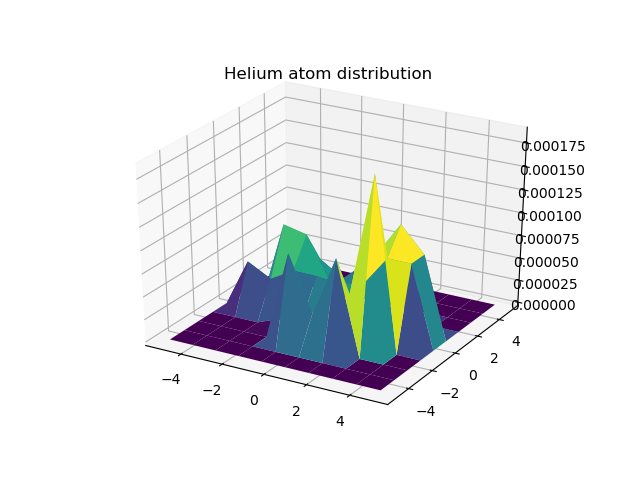
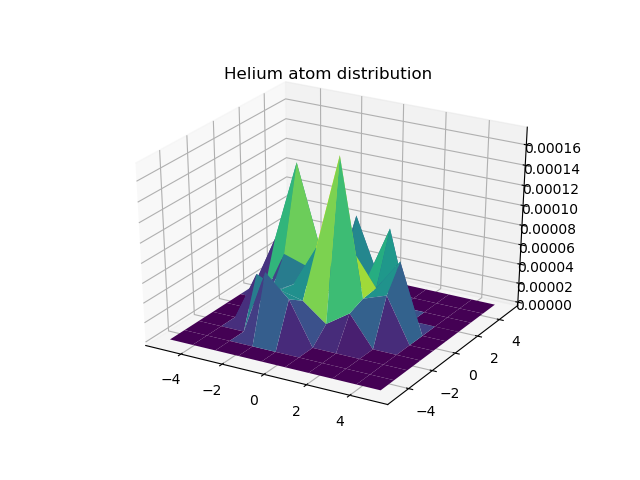
Integral now returns close to the accurate value, but not sure yet about the error estimations.

diff --git a/venv/montecarlo.py b/venv/montecarlo.py
@@ -2,12 +2,12 @@ import numpy as np
 import random
 from matplotlib import pyplot as plt
 
-test_mode = True
+test_mode = False
 
 '''
 TASK 1
 '''
-print('Starting task 1')
+# main process begins after function definitions
 
 def uniform(N):
     sample = [random.uniform(0, 1) for i in range(N)]
@@ -19,12 +19,6 @@ def uniform(N):
     sigma = np.sqrt(variance)
     error = sigma/np.sqrt(N)
     print('N=', N, ': \tI_N=', I_N, ', error=', error)
-print('---TASK 1 OUTPUT---')
-print('--UNIFORM DISTRIBUTION--')
-uniform(10)
-uniform(100)
-uniform(1000)
-uniform(10000)
 
 def linear(N, a=-0.5, b=1.25):
     #sample = [random.uniform(0, np.sqrt((2*a+b)/b)-b) for i in range(N)]    # not quite sure about np.sqrt((2*a+b)/b)-b, got there by trial and error
@@ -42,11 +36,6 @@ def linear(N, a=-0.5, b=1.25):
     sigma = np.sqrt(variance)
     error = sigma/np.sqrt(N)
     print('N=', N, ': \tI_N=', I_N, ', error=', error)
-print('--LINEAR DISTRIBUTION--')
-linear(10)
-linear(100)
-linear(1000)
-linear(10000)
 
 def metropolis_task1(N, a=-0.5, b=1.25):
     sample = []
@@ -104,16 +93,32 @@ def metropolis_task1(N, a=-0.5, b=1.25):
     acceptance_rate = nbr_accepts/(nbr_accepts+nbr_rejects)
     print('N=', N, ': \tI_N=', I_N, '\terror=', error, '\tpsi_k=', psi_k, 'for k=', k, '\tacceptance_rate=',acceptance_rate)
     #print('nbr_accepts:',nbr_accepts,'\tnbr_rejects:',nbr_rejects)
-print('--METROPOLIS--')
-metropolis_task1(10)
-metropolis_task1(100)
-metropolis_task1(1000)
-metropolis_task1(10000)
+
+# MAIN PROCESS
+if __name__ == '__main__':
+    print('Starting task 1')
+    print('---TASK 1 OUTPUT---')
+    print('--UNIFORM DISTRIBUTION--')
+    uniform(10)
+    uniform(100)
+    uniform(1000)
+    uniform(10000)
+    print('--LINEAR DISTRIBUTION--')
+    linear(10)
+    linear(100)
+    linear(1000)
+    linear(10000)
+    print('--METROPOLIS--')
+    metropolis_task1(10)
+    metropolis_task1(100)
+    metropolis_task1(1000)
+    metropolis_task1(10000)
 
 '''
 TASK 2
 '''
 print('Starting task 2')
+# main process begins after function definitions
 
 # the wave function - input consists of two vectors in cartesian coordinates and a value of alpha
 def psi(alpha, vec_1, vec_2=None):
@@ -131,12 +136,17 @@ def get_samples(alpha, N=100000, N_eq=10000):
     for i in range(6):
         first_sample[i%2][i%3] = random.uniform(-xyz_max, xyz_max)
     #x_i = np.array([random.uniform(-xyz_max, xyz_max),random.uniform(-xyz_max, xyz_max),random.uniform(-xyz_max, xyz_max)])
-    x_i = sample(alpha, first_sample, N_eq)[-1]       # sample N_eq times first
+    samples, acceptance_rate = sample(alpha, first_sample, N_eq)       # sample N_eq times first
+    x_i = samples[-1]
     return sample(alpha, x_i, N)
 def sample(alpha, starting_points, nbr_samples):
+    # alpha = corresponding parameter in trial wave function
+    # starting_points = a pair of coordinate triples ((x1,y1,z1),(x2,y2,z2)) corresponding to the initial positions
+    # nbr_samples = number of items to be returned; each item is a pair of coordinate triples
     out = []
     dim = 0  # x, y or z dimension
     out.append(starting_points)
+    nbr_accepted = 0
     while len(out) < nbr_samples:
         r = random.uniform(-xyz_max, xyz_max)
         next_coordinate = starting_points[dim%2][dim%3] + delta * (r - 0.5)
@@ -153,11 +163,13 @@ def sample(alpha, starting_points, nbr_samples):
         r = random.uniform(0, 1)
         if r < prob:  # note that this entails 1 < prob
             starting_points = next_points
+            nbr_accepted += 1
         out.append(starting_points)                      # NOT SURE ABOUT ACCEPTING OLD VALUE AGAIN??
         # alternate between x, y and z dimensions for two points
         dim += 1
         dim %= 6
-    return out
+    acceptance_rate = nbr_accepted/nbr_samples
+    return out, acceptance_rate
 
 # local energy - input same as for wavefunction
 def local_energy(alpha, positions):
@@ -165,19 +177,19 @@ def local_energy(alpha, positions):
     vec_2 = positions[1]
     r_1 = np.linalg.norm(vec_1)
     r_2 = np.linalg.norm(vec_2)
-    r_12 = np.linalg.norm(vec_2-vec_1)
+    r_12 = np.linalg.norm(vec_1-vec_2)
     r_1_hat = vec_1/r_1
     r_2_hat = vec_2/r_2
-    r_12_hat = (vec_2-vec_1)/r_12
+    r_12_hat = (vec_1-vec_2)/r_12
     term_1 = -4
-    term_2 = np.dot(r_1_hat-r_2_hat, r_12_hat)/(1+alpha*r_12)**2
+    term_2 = np.dot(r_1_hat-r_2_hat, r_12_hat)/((1+alpha*r_12)**2)
     term_3 = alpha/(1+alpha*r_12)
-    term_4 = alpha/(1+alpha*r_12)**2
-    term_5 = alpha/(1+alpha*r_12)**3
-    term_6 = -1/(4*(1+alpha*r_12)**4)
+    term_4 = alpha/((1+alpha*r_12)**2)
+    term_5 = alpha/((1+alpha*r_12)**3)
+    term_6 = -1/(4*((1+alpha*r_12)**4))
     return term_1+term_2+term_3+term_4+term_5+term_6
 
-def metropolis_task2(alpha, sample):
+def calculate_integral(alpha, sample):
     N = len(sample)
     # calculate integral
     psi_2 = []
@@ -190,6 +202,9 @@ def metropolis_task2(alpha, sample):
     rho = psi_2/normalization_factor             # NOT SURE HOW THIS AFFECTS THE CORRELATION??
     E_L = np.asarray(E_L)
     #I_N = np.sum(E_L*rho)/N                    # SHOULD DIVIDE INTEGRAND WITH WEIGHT FUNCTION??
+    for i in range(len(E_L)):
+        #print(E_L[i])
+        pass
     I_N = np.sum(E_L) / N
     # calculate autocorrelation
     psi_array = []      # append to output
@@ -198,8 +213,8 @@ def metropolis_task2(alpha, sample):
     while np.abs(psi_k) > 0.1 and k < N - 1:  # np.abs really needed??
         k += 1
         corr = []
-        # g = f/w = (E_L*rho)/rho = E_L
-        g = E_L
+        # g = f/w = ((E_L*rho)/rho)/rho = E_L/rho
+        g = E_L/rho
         x = sample
         # same as above
         for i in range(len(x) - k):
@@ -209,44 +224,68 @@ def metropolis_task2(alpha, sample):
         g_square_mean = np.mean(g * g)
         psi_k = (corr_mean - g_mean * g_mean) / (g_square_mean - g_mean * g_mean)
         psi_array.append(psi_k)       # append to output
-    # print results
-    return I_N, psi_array
+    # calculate variance
+    variance = np.sum(E_L*E_L) / N - I_N ** 2
+    sigma = np.sqrt(variance)
+    error = sigma/np.sqrt(N/len(psi_array))
+    # return results
+    return I_N, psi_array, E_L
 
-# main process
-delta = 1.9                     # NOT SURE??
-xyz_max = 5                     # NOT SURE??
-alphas = (0.100, 0.125, 0.150)
-N=100000
-N_eq=10000
-M = 10
-if test_mode:
-    M = 1
-    alphas = [0.125]
+# MAIN PROCESS
+if __name__ == '__main__':
+    # main process
+    delta = 0.3                     # got this value by trial and error, but doesn't appear to affect the result much
+    xyz_max = 5                     # at this distance from the origin, probabilities are very small
+    alphas = (0.100, 0.125, 0.150)
+    N=100000
+    N_eq=10000
+    M = 10
+    if test_mode:
+        M = 1
+        alphas = [0.125]
 
-# perform calculations M times for each value of alpha
-output = []
-for i in range(len(alphas)):
-    print('Working with alpha=',alphas[i])      # track progress
-    all_samples = []
-    integral_results = []
-    correlation_results = []
-    for j in range(M):
-        sample_array = get_samples(alphas[i], N, N_eq)
-        all_samples.append(sample_array)
-        I_N, psi_array = metropolis_task2(alphas[i], sample_array)
-        integral_results.append(I_N)
-        correlation_results.append(psi_array)
-        print('\tCompleted M=',j)
-    output.append((all_samples, integral_results, correlation_results))
+    # perform calculations M times for each value of alpha
+    output = []
+    for i in range(len(alphas)):
+        print('Working with alpha=',alphas[i])      # track progress
+        all_samples = []
+        integral_results = []
+        k = []
+        local_energies = []
+        errors = []
+        for j in range(M):
+            sample_array, acceptance_rate = get_samples(alphas[i], N, N_eq)
+            all_samples.append(sample_array)
+            I_N, psi_array, E_L = calculate_integral(alphas[i], sample_array)
+            integral_results.append(I_N)
+            local_energies.append(E_L)
+            k.append(len(psi_array))
+            variance = np.sum(E_L * E_L) / N - np.mean(E_L) ** 2
+            sigma = np.sqrt(variance)
+            errors.append(sigma / np.sqrt(N / len(psi_array)))
+            print('\tCompleted M=',j,'\tacceptance_rate:', acceptance_rate)
+            if (test_mode):
+                for i in range(len(sample_array)):
+                    #print(sample_array[i])
+                    pass
+        '''
+        # calculate error
+        local_energies = np.asarray(local_energies)
+        variance = np.sum(local_energies * local_energies) / (N*M) - np.mean(local_energies) ** 2
+        sigma = np.sqrt(variance)
+        error = sigma / np.sqrt(N*M / np.sum(k))          # NOT SURE ABOUT THE LAST DENOMINATOR??
+        '''
+        # output results for this value of alpha
+        output.append((all_samples, integral_results, k, errors))
 
-print('---TASK 2 OUTPUT---')
-print('Mean values for I_N:')
-for i in range(len(alphas)):
-    print('alpha=', alphas[i], ':\t\tI_N=',np.mean(output[i][1]))
+    print('---TASK 2 OUTPUT---')
+    print('Mean values for I_N:')
+    for i in range(len(alphas)):
+        print('alpha=', alphas[i], ':\t\tI_N=',np.mean(output[i][1]),'\t\terror=',np.sum(output[i][3]))
 
 '''
 TASK 3
-'''
+
 print('Starting task 3')
 
 # parameter to set discretization steps for the distribution functions
@@ -349,3 +388,4 @@ ax = plt.axes(projection='3d')
 ax.plot_surface(x, y, g_twodim,cmap='viridis', edgecolor='none')
 ax.set_title('Helium atom distribution')
 plt.savefig("3-Helium-atom-distribution.png")
+'''

diff --git a/venv/test.py b/venv/test.py
@@ -2,6 +2,7 @@
 import matplotlib.pyplot as plt
 import numpy as np
 from mpl_toolkits.mplot3d import Axes3D
+import montecarlo as mc
 
 # Fixing random state for reproducibility
 np.random.seed(19680801)
@@ -73,7 +74,10 @@ print(test)
 
 #  if x_i>2/3, delta=2-x_i otherwise
 # delta = np.sqrt(8*(a*x_i+b)*(1-x_i)/a)  # choose delta such that half is to be accepted
-
+'''
 if x_i < delta / 2:
     # delta = (a*x_i**2+2*b*x_i-2*x_i+2)/(a*x_i+b)
     pass
+'''
+x = mc.psi(0.125, np.asarray([0,0,3]),np.asarray([0,0,0]))
+print(x)
